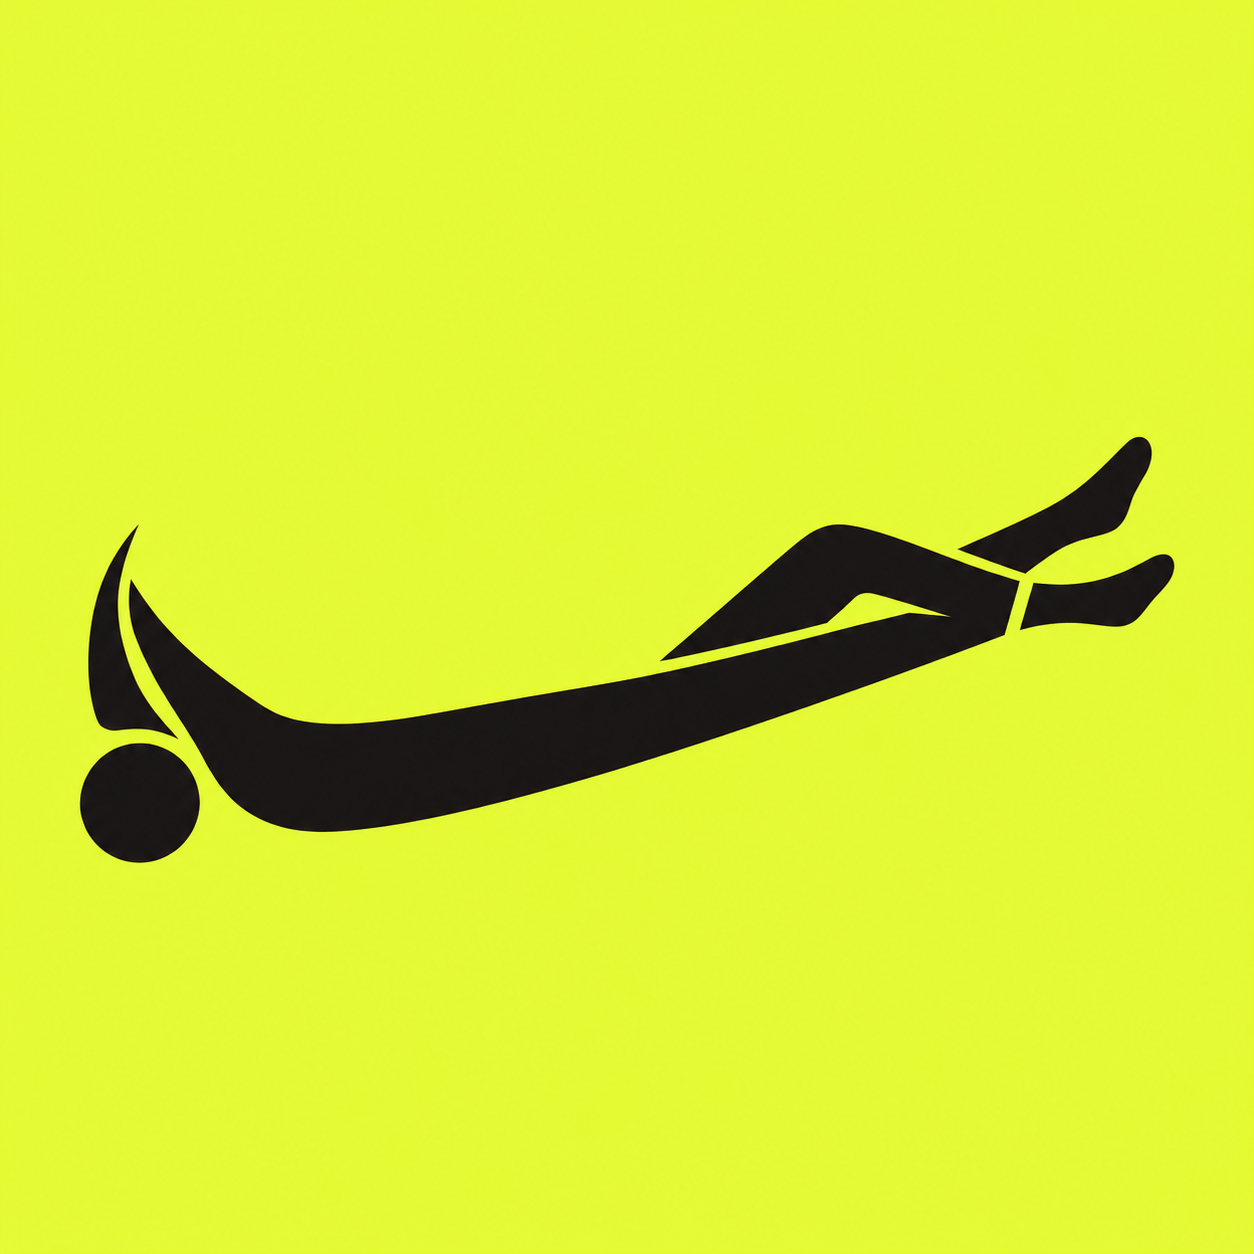
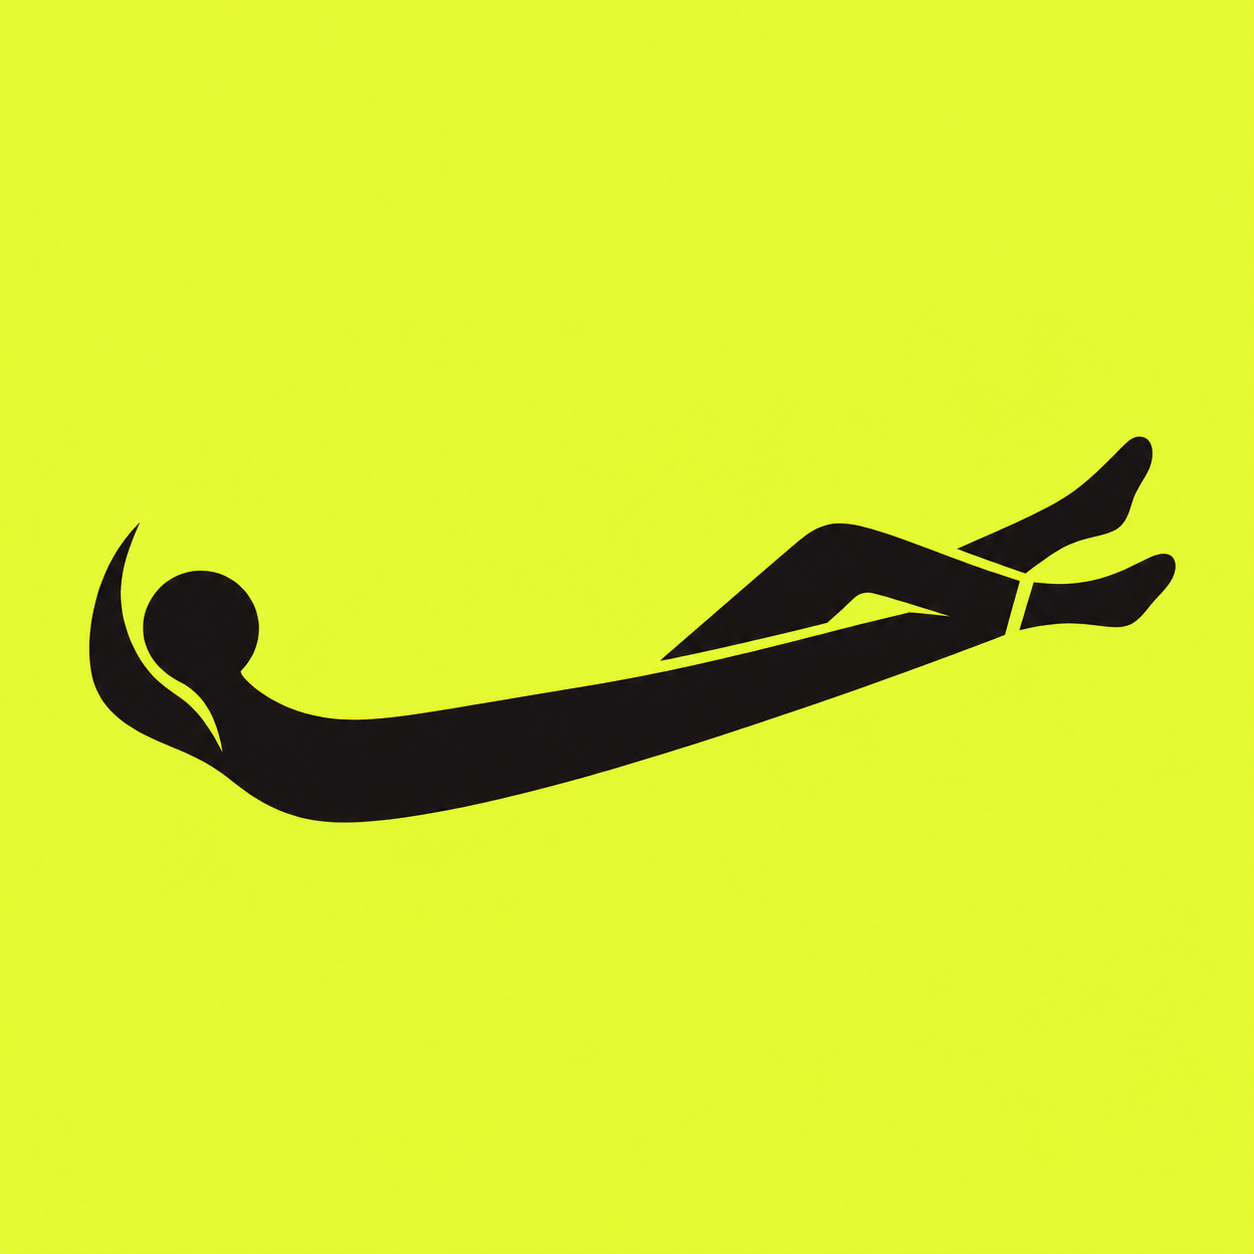
Connect Nooprun nape to the swoosh shoulder bend

Changed region(s): [[0.0622, 0.4354, 0.311, 0.7153], [0.2177, 0.5598, 0.3421, 0.5909], [0.3421, 0.622, 0.4043, 0.6531]]

diff --git a/demos/nooprun/app.js b/demos/nooprun/app.js
@@ -100,7 +100,7 @@
     const chartIcon='<path d="M5 20V12m7 8V4m7 16V8"/>';
     const gearIcon='<path d="m10 3 .5-1h3l.5 3 2 1 2.5-1 1.5 2.6-2 2V13l2 2-1.5 2.6-2.5-1-2 1-.5 3h-3l-.5-3-2-1-2.5 1L3 15l2-2V10L3 8l1.5-2.6L7 6l2-1Z"/><circle cx="11.5" cy="11.5" r="3"/>';
     return `<section class="app-screen home lobby-home club-home">
-      <header class="club-header"><h2>집콕</h2><img class="club-app-icon" src="assets/brand/nooprun-recline.png?v=crossed-1" width="42" height="42" alt="눕런: 다리를 꼬고 누워 있는 사람"></header>
+      <header class="club-header"><h2>집콕</h2><img class="club-app-icon" src="assets/brand/nooprun-recline.png?v=nape-1" width="42" height="42" alt="눕런: 다리를 꼬고 누워 있는 사람"></header>
       <nav class="club-mode-tabs" aria-label="집콕 메뉴"><button data-action="home" aria-current="page">바로 시작</button><button data-action="history">나의 기록</button></nav>
       <div class="club-stage">
         <svg class="club-map" viewBox="0 0 375 530" preserveAspectRatio="xMidYMid slice" aria-hidden="true"><rect width="375" height="530" fill="#f1f2ee"/><g fill="#e6e8e3"><path d="M0 42h91v77H0Zm108-40h94v117h-94Zm111 0h80v119h-80Zm98 4h58v116h-58ZM0 138h93v92H0Zm110 0h92v92h-92Zm108 0h89v92h-89Zm108 0h49v92h-49ZM0 250h91v100H0Zm110 0h92v100h-92Zm109 0h86v100h-86Zm107 0h49v100h-49ZM0 370h91v160H0Zm109 0h94v160h-94Zm111 0h90v160h-90Zm109 0h46v160h-46Z"/></g><path d="m-30 410 198-75 250-44" stroke="#fff" stroke-width="21" fill="none"/><path d="m-25 410 198-75 250-44" stroke="#e1e4dd" stroke-width="2" fill="none"/><path d="M-20 152q67 10 101 4t40 36l-22 27H-20Z" fill="#e0e9d9"/><path d="M293 366h82v115h-82z" fill="#e0e9d9"/><g stroke="#daddd6" stroke-width="1" fill="none"><path d="M18 57h55v43H18Zm110-30h54v73h-54Zm109 3h43v70h-43ZM130 156h51v54h-51Zm107 0h51v54h-51ZM16 271h57v55H16Zm116 0h48v55h-48Zm104 0h51v40h-51ZM19 391h52v77H19Zm112-9h50v91h-50Zm104 8h51v99h-51"/></g></svg>

diff --git a/data.js b/data.js
@@ -43,7 +43,7 @@ window.ARCHIVE_ITEMS = [
     id: 'nooprun', title: '눕런', category: 'app',
     tagline: '오늘의 코스는, 집.',
     summary: '집에서 얼마나 뒹굴거렸는지 러닝처럼 기록하는 집순이·집돌이용 앱. 집에서 시작하고, GPS로 집 밖임이 확인되면 자동으로 완주해요.',
-    status: '조작 시안', theme: '#f5f5f7', cover: 'assets/nooprun-poses.png', demo: 'demos/nooprun/?v=crossed-1', video: 'assets/nooprun.mp4',
+    status: '조작 시안', theme: '#f5f5f7', cover: 'assets/nooprun-poses.png', demo: 'demos/nooprun/?v=nape-1', video: 'assets/nooprun.mp4',
     features: ['집 위치·반경 설정 → 집콕 시작', 'GPS 오차를 고려한 외출 자동 종료', '스포츠 앱 패러디 · 사진으로 집콕 인증'],
     note: '위치 권한을 허용하면 화면이 켜진 동안 외출을 감지해요. 집 위치는 브라우저에만 보관해요. 잠금·백그라운드 감지는 모바일 앱에서 별도 구현이 필요해요. 소개 영상은 이전 시안입니다.', updated: '2026-10-30'
   },

diff --git a/demos/nooprun/index.html b/demos/nooprun/index.html
@@ -5,8 +5,8 @@
   <meta name="viewport" content="width=device-width,initial-scale=1">
   <meta name="color-scheme" content="light">
   <title>눕런 — 오늘도, 가만히 완주.</title>
-  <link rel="icon" type="image/png" href="assets/brand/nooprun-recline.png?v=crossed-1">
-  <link rel="apple-touch-icon" href="assets/brand/nooprun-recline.png?v=crossed-1">
+  <link rel="icon" type="image/png" href="assets/brand/nooprun-recline.png?v=nape-1">
+  <link rel="apple-touch-icon" href="assets/brand/nooprun-recline.png?v=nape-1">
   <link rel="stylesheet" href="style.css">
   <link rel="stylesheet" href="lobby.css?v=home-gps-1">
   <link rel="stylesheet" href="session.css?v=home-gps-1">
@@ -57,6 +57,6 @@
   <script src="art.js?v=home-gps-1"></script>
   <script src="voice.js?v=home-gps-1"></script>
   <script src="location.js?v=home-gps-1"></script>
-  <script src="app.js?v=crossed-1"></script>
+  <script src="app.js?v=nape-1"></script>
 </body>
 </html>

diff --git a/index.html b/index.html
@@ -11,7 +11,7 @@
   <title>이 어플 어때? — 아이디어 아카이브</title>
   <link rel="icon" href="favicon.svg" type="image/svg+xml">
   <link rel="stylesheet" href="styles.css?v=social-1">
-  <script src="data.js?v=nooprun-crossed-1" defer></script>
+  <script src="data.js?v=nooprun-nape-1" defer></script>
   <script src="app.js" defer></script>
 </head>
 <body>
